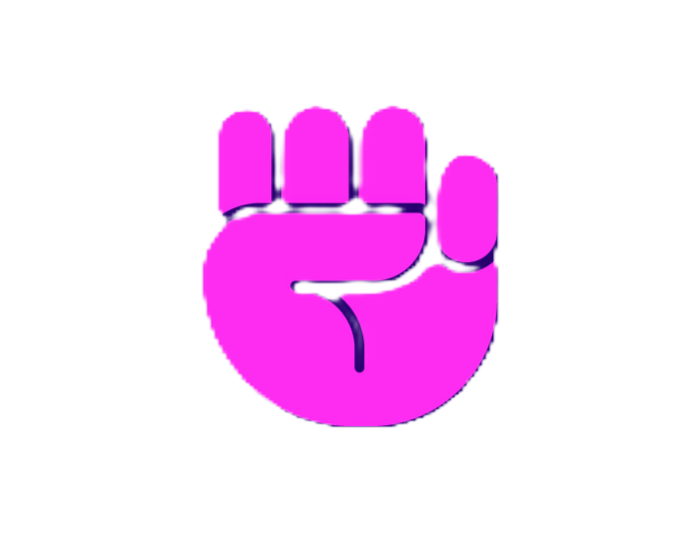
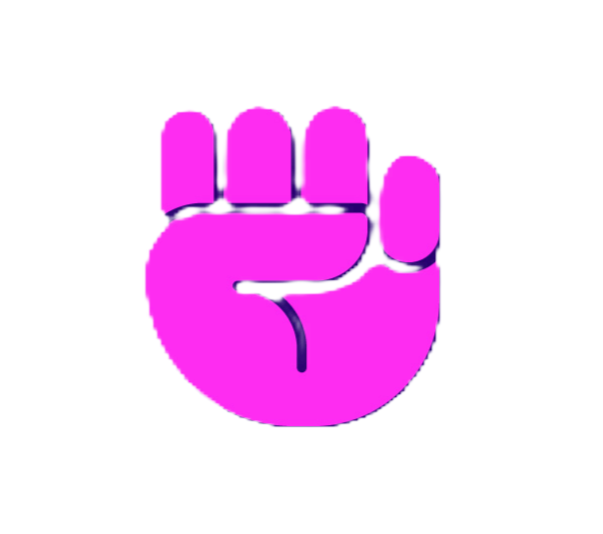
Worked on Styles, JS and Adjusted Images.
Adjusted the images to fit better.
Finished the styles.
Nearly finished the JavaScript.

diff --git a/script.js b/script.js
@@ -1,0 +1,93 @@
+const userScore = 0;
+const compScore = 0;
+const userScore_span = document.getElementById("user-score");
+const compScore_span = document.getElementById("comp-score");
+const scoreboard_div = document.querySelector(".score-board");
+const result_div = document.querySelector(".result");
+const rock_div = document.getElementById("r");
+const paper_div = document.getElementById("p");
+const scissors_div = document.getElementById("s");
+
+
+//Generate random number and assign comp. choice using it
+function getCompChoice(){
+    const choices = ['r', 'p', 's'];
+    const randNum = Math.floor(Math.random() * 3);
+
+    return choices[randNum];
+}
+
+
+function convertToWord(letter){
+    if(letter == "r") return "Rock";
+    if(letter == "p") return "Paper";
+    return "Scissors";
+}
+
+
+function win(userChoice, compChoice){
+    userScore++;
+    userScore_span.innerHTML = userScore;
+    compScore_span.innerHTML = compScore;
+    const smallUserWord = "user".fontsize(3).sub();
+    const smallCompWord = "comp".fontsize(3).sub();    
+    result_div.innerHTML = '${convertToWord(userChoice)}${smallUserWord} beats ${convertToWord(compChoice)}${smallCompWord}. You win!';
+    document.getElementById(userChoice).classList.add('green-glow');
+}
+
+function lose(userChoice, compChoice){
+    compScore++;
+    userScore_span.innerHTML = userScore;
+    compScore_span.innerHTML = compScore;
+    const smallUserWord = "user".fontsize(3).sub();
+    const smallCompWord = "comp".fontsize(3).sub();    
+    result_div.innerHTML = '${convertToWord(userChoice)}${smallUserWord} loses to ${convertToWord(compChoice)}${smallCompWord}. You win!';
+}
+
+function draw(userChoice, compChoice){
+    const smallUserWord = "user".fontsize(3).sub();
+    const smallCompWord = "comp".fontsize(3).sub();    
+    result_div.innerHTML = '${convertToWord(userChoice)}${smallUserWord} draws against ${convertToWord(compChoice)}${smallCompWord}. You win!';
+}
+
+
+function game(userChoice){
+    const compChoice = getCompChoice();
+
+    switch(userChoice + compChoice){
+        case "rs":
+        case "pr":
+        case "sp":
+            win();
+            break;
+        
+        case "rp":
+        case "ps":
+        case "sr":
+            lose();
+            break;
+
+        case "rr":
+        case "pp":
+        case "ss":
+            draw();
+            break;
+    }
+}
+
+
+function main(){
+    rock_div.addEventListener('click', function(){
+        game("r")
+    })
+    
+    paper_div.addEventListener('click', function(){
+        game("p")
+    })
+    
+    scissors_div.addEventListener('click', function(){
+        game("s")
+    })
+}
+
+main();

diff --git a/style.css b/style.css
@@ -15,6 +15,21 @@ header{
     padding: 20px;
 }
 
+.green-glow{
+    border: 4px solid rgb(7, 235, 7);
+    box-shadow: 0 0 10px rgb(4, 101, 4);
+}
+
+.red-glow{
+    border: 4px solid rgb(235, 22, 7);
+    box-shadow: 0 0 10px rgb(148, 7, 7);
+}
+
+.gray-glow{
+    border: 4px solid rgb(98, 88, 87);
+    box-shadow: 0 0 10px rgb(55, 52, 52);
+}
+
 header > h1{
     color: red;
     text-align: center;
@@ -65,6 +80,35 @@ header > h1{
     font-family: Asap, sans-serif;
 }
 
+.choices{
+    margin-top: 50px 0;
+    text-align: center;
+}
+
 .choice{
-    
+    display: inline-block;
+    border: 4px solid white;
+    border-radius: 50%;
+    padding: 10px;
+    margin: 0 20px;
+    transition: all 0.3s ease-in-out;
+}
+
+.choice img{
+    width: 120px;
+    height: 120px;
+}
+
+.choice:hover{
+    cursor: pointer;
+    background: #fff;
+}
+
+#message{
+    text-align: center;
+    font-size: 26px;
+    font-family: Asap, sans-serif;
+    color: #fff;
+    font-weight: bold;
+    margin-top: 20px;
 }

diff --git a/index.html b/index.html
@@ -6,6 +6,7 @@
     <meta name="viewport" content="width=device-width, initial-scale=1.0">
     <title>Rock Paper Scissors</title>
     <link rel="stylesheet" href="style.css">
+    <script src="script.js" charset="UTF-8"></script>
 </head>
 <body>
     <header>
@@ -15,7 +16,7 @@
     <div class="score-board">
         <div id="user-label" class="badge">user</div>
         <div id="comp-label" class="badge">computer</div>
-        <span id="user-score">0 : 0</span>
+        <span id="user-score">0</span> : <span id="comp-score">0</span>
     </div>
     <div class="result">
         <p>Paper beats Rock. You win!</p>
